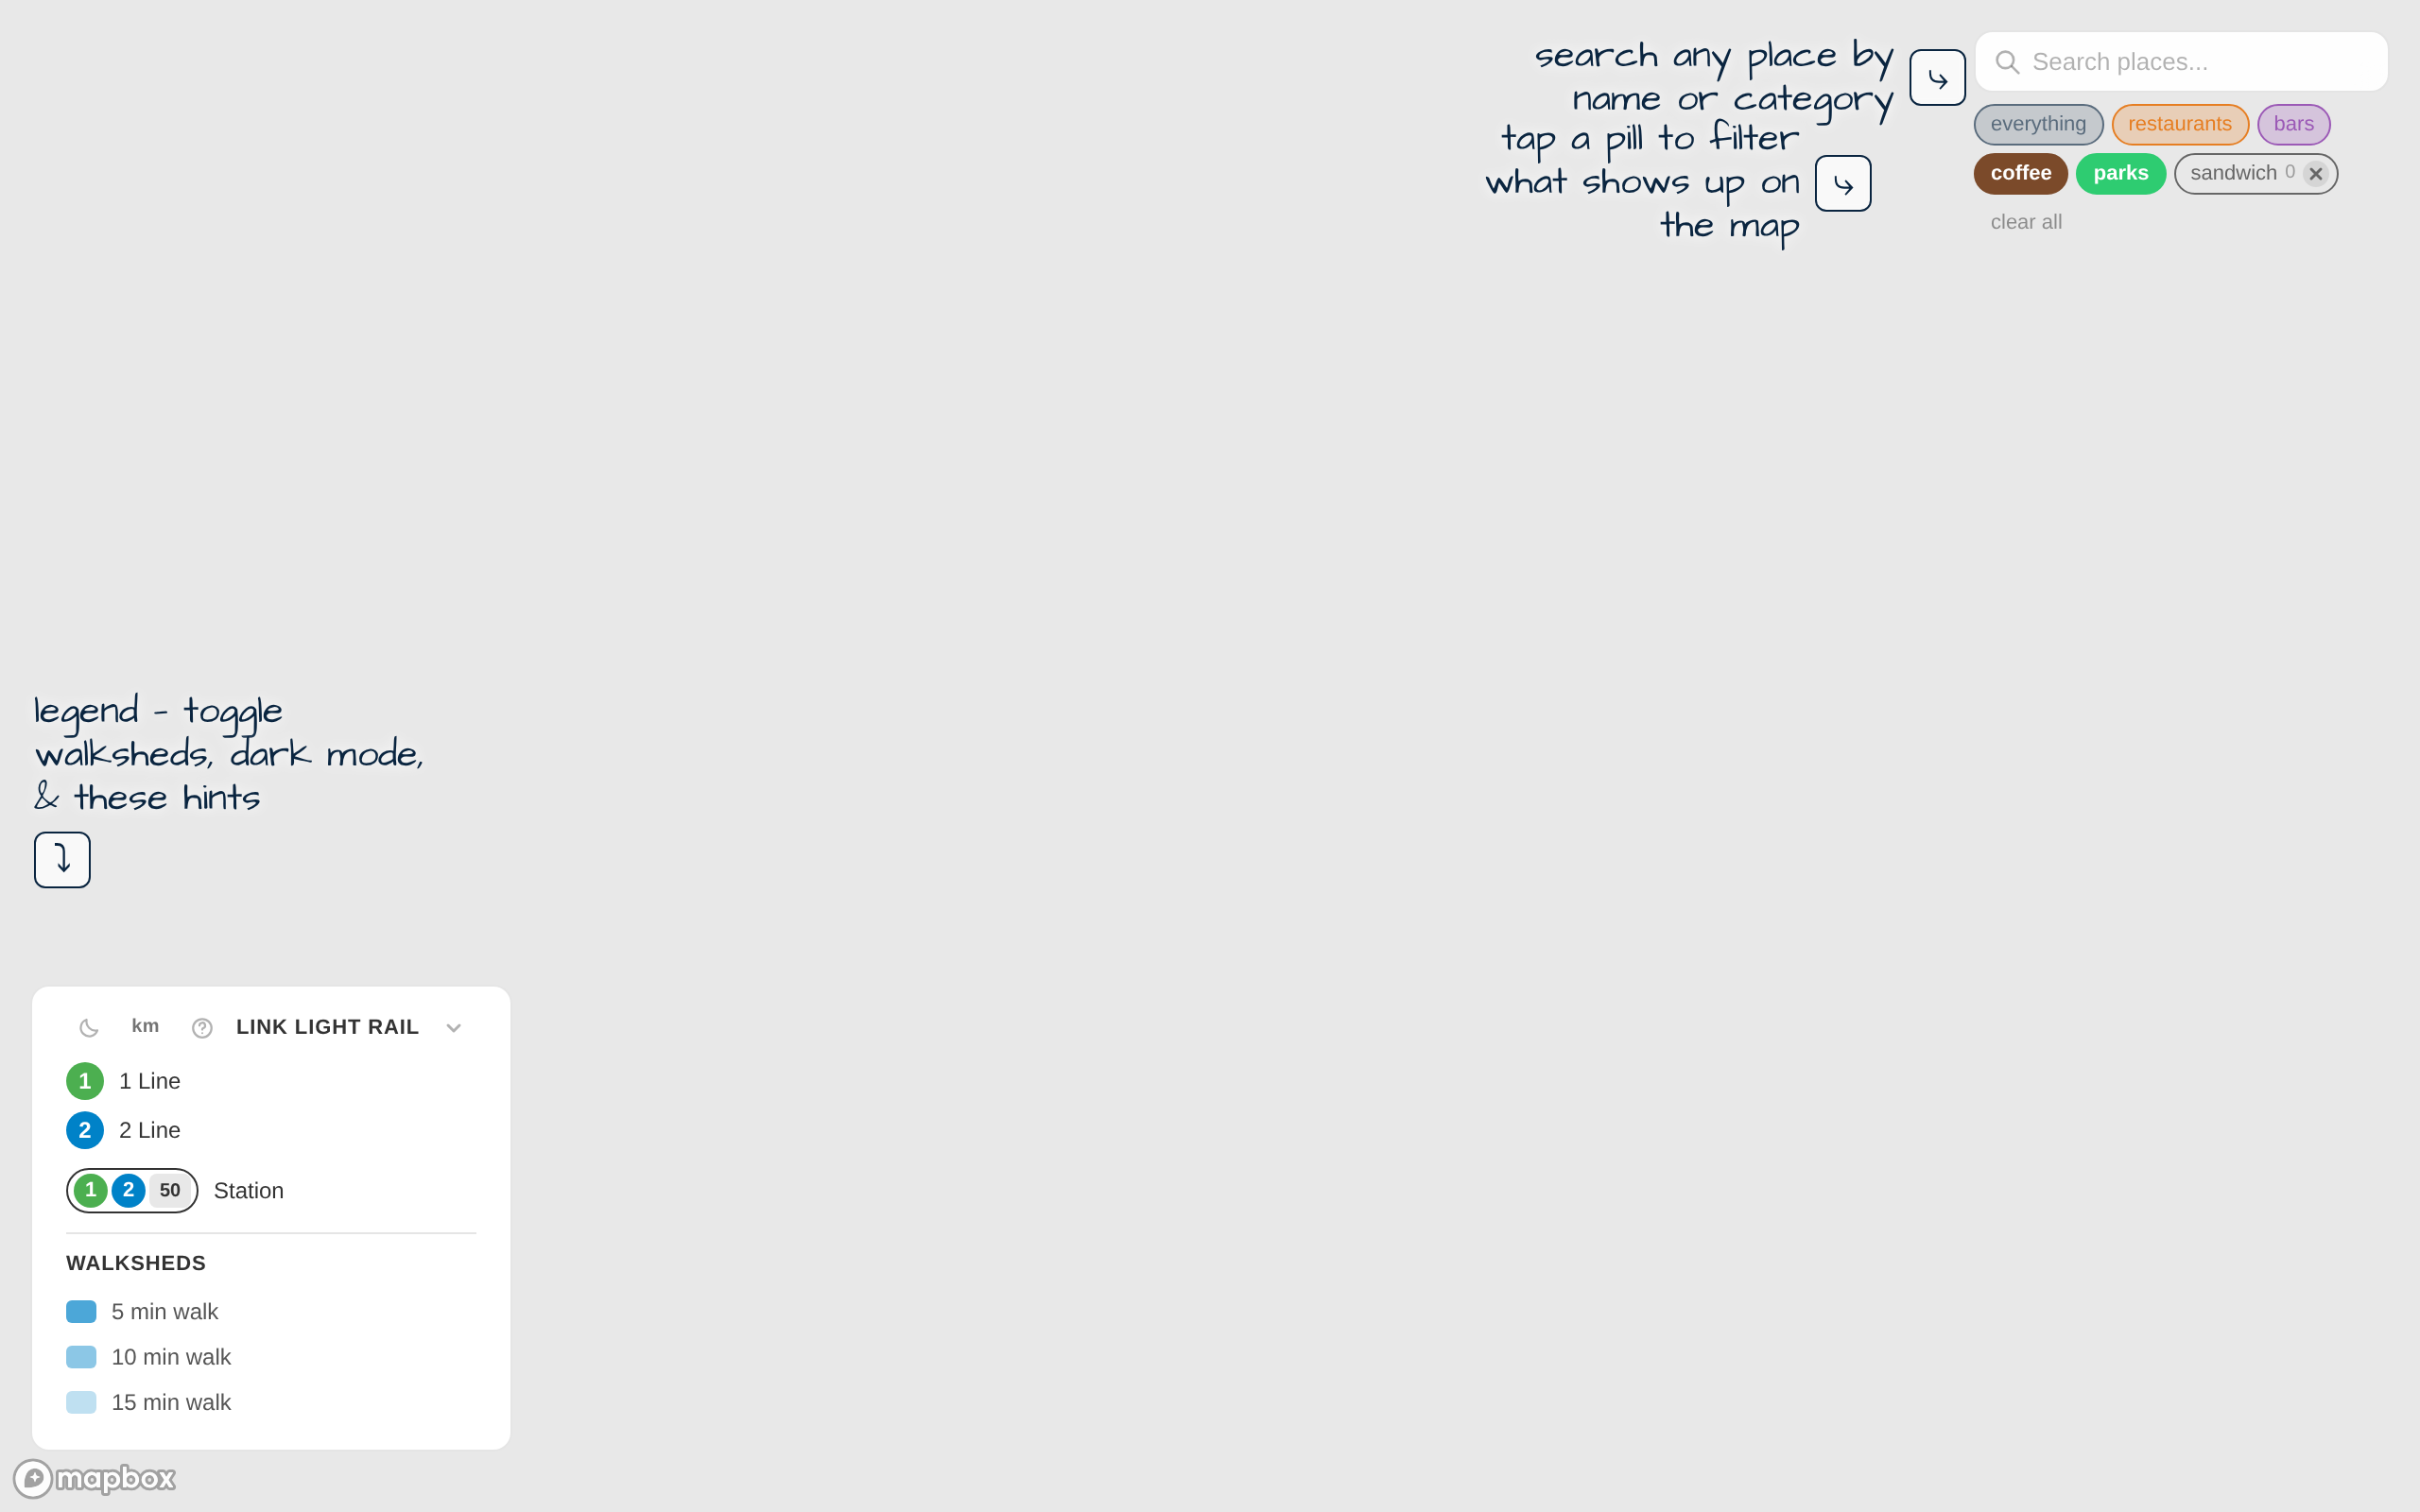
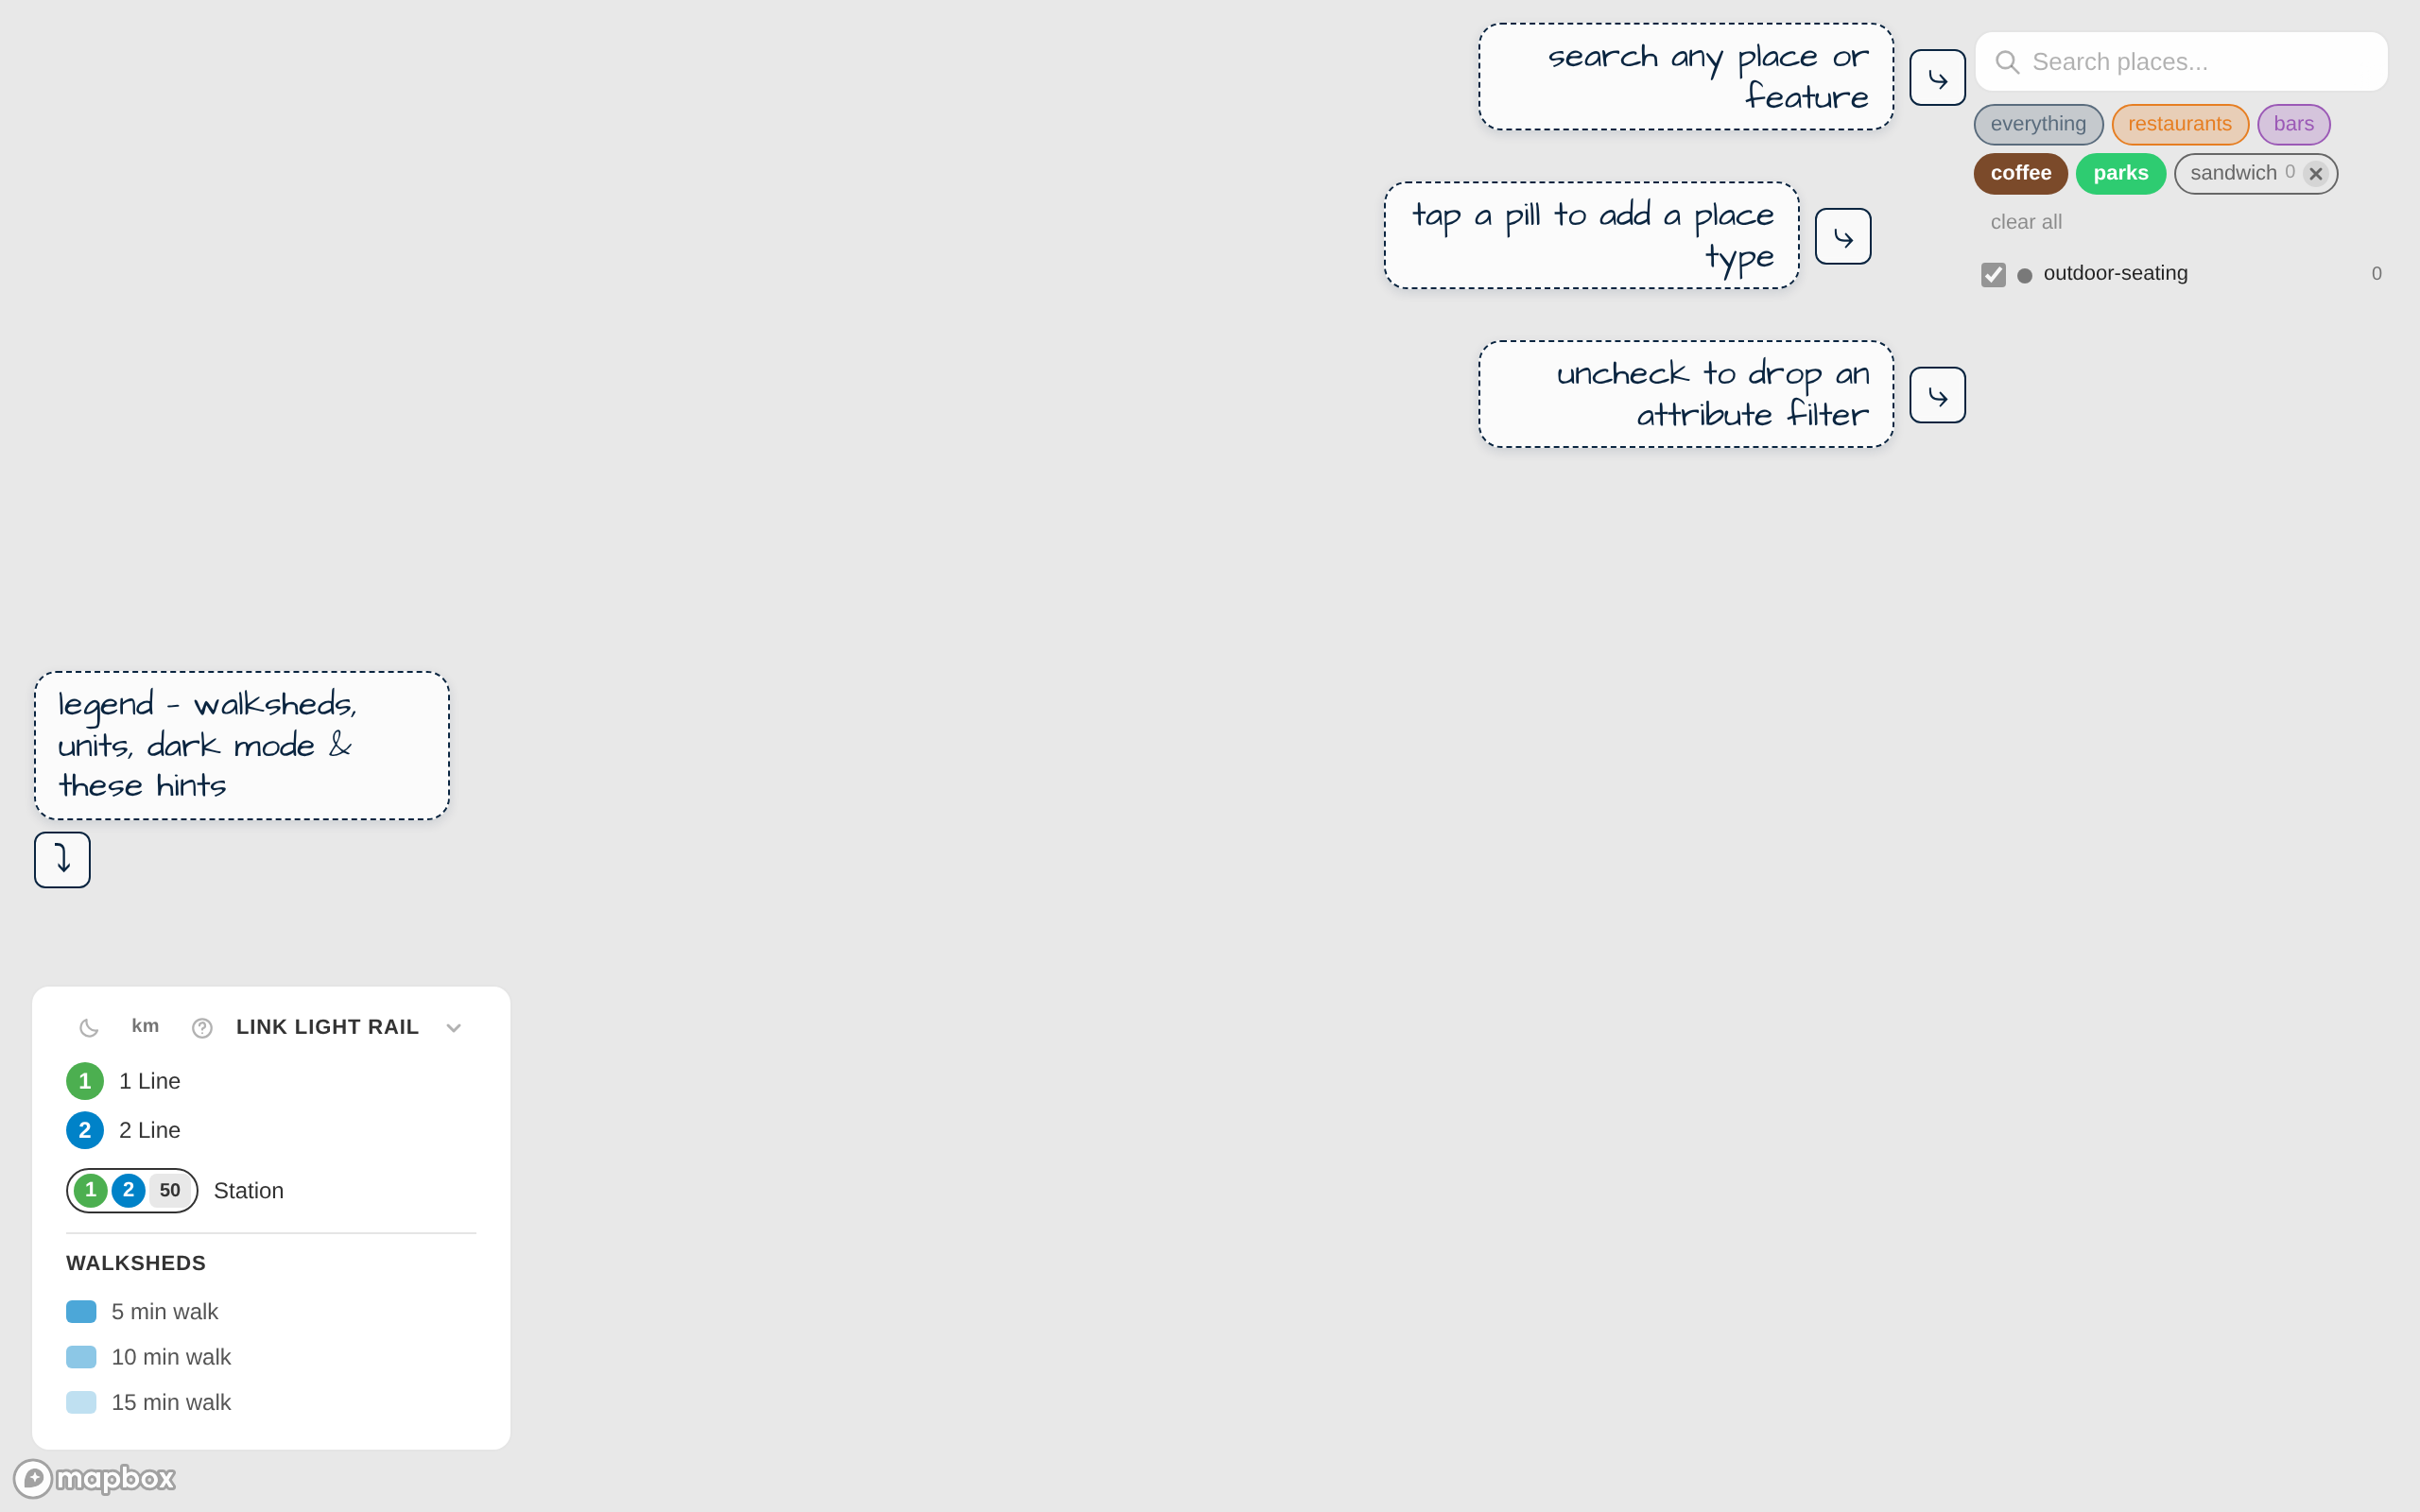
Add filter-list hint, tighten existing hint copy, and add visual separation
After main split the POI state into spotlights / categories / filters,
the existing "tap a pill to filter what shows up" copy was misleading —
pills are POI categories now, and the new attribute filters live in a
separate checkbox list below the pills. Add a fourth hint pointing at
that filter list and rewrite the legend, search, and pills copy to
match the new model.

For visual separation, wrap each hint label in a dashed-bordered
rounded card with a soft translucent background (matching the
blueprint aesthetic), bump vertical spacing between the four cards,
and tighten copy to keep each label at most two lines.

The filter-list hint is suppressed when `activeFilters` is empty so
the arrow never points at empty space. To make the demo land cleanly
on first load, also seed an `outdoor-seating` filter alongside the
existing sandwich category default — both surface beside Westlake's
parks + coffee spotlights.

Updated demo screenshots for expanded and collapsed legend states.

https://claude.ai/code/session_01BJfRR196Lb954yx5ttjYH3

diff --git a/src/walksheds.css b/src/walksheds.css
@@ -605,20 +605,22 @@ body,
 
 .hint-label {
   font-family: 'Architects Daughter', 'Comic Sans MS', cursive;
-  font-size: 20px;
+  font-size: 18px;
   font-weight: 400;
-  line-height: 1.15;
+  line-height: 1.2;
   max-width: 220px;
   color: inherit;
-  text-shadow:
-    0 0 6px rgba(255, 255, 255, 0.9),
-    0 0 12px rgba(255, 255, 255, 0.6);
+  padding: 6px 12px;
+  border: 1.5px dashed currentColor;
+  border-radius: 12px;
+  background: rgba(255, 255, 255, 0.82);
+  backdrop-filter: blur(2px);
+  box-shadow: 0 2px 6px rgba(10, 37, 64, 0.12);
 }
 
 .app.dark .hint-label {
-  text-shadow:
-    0 0 6px rgba(0, 0, 0, 0.9),
-    0 0 12px rgba(0, 0, 0, 0.6);
+  background: rgba(10, 20, 35, 0.72);
+  box-shadow: 0 2px 6px rgba(0, 0, 0, 0.4);
 }
 
 /* kbd-styled glyph chip matching the junction-turn arrows on the station
@@ -678,33 +680,49 @@ body,
 
 /* Search hint: label left, arrow right pointing RIGHT at the search box. */
 .hint-search {
-  top: 18px;
+  top: 12px;
   right: 240px;
   text-align: right;
 }
 
 .hint-search .hint-label {
-  max-width: 200px;
+  max-width: 220px;
 }
 
 /* Pills hint: label left, arrow right pointing RIGHT at the pills row.
-   Aligns vertically with the pills (which appear directly below the
-   search box). */
+   Sits well below the search hint to keep visual separation between
+   the four cards. */
 .hint-pills {
-  top: 62px;
+  top: 96px;
   right: 290px;
   text-align: right;
 }
 
 .hint-pills .hint-label {
-  max-width: 200px;
+  max-width: 220px;
+}
+
+/* Filter hint: label left, arrow right pointing RIGHT at the attribute
+   checkbox list (rendered below the pills row when activeFilters is
+   non-empty). */
+.hint-filters {
+  top: 180px;
+  right: 240px;
+  text-align: right;
+}
+
+.hint-filters .hint-label {
+  max-width: 220px;
 }
 
 @media (max-width: 900px) {
-  .hint-label { font-size: 17px; }
-  .hint-search { right: 220px; }
-  .hint-pills  { right: 260px; }
-  .hint-search .hint-label, .hint-pills .hint-label { max-width: 160px; }
+  .hint-label { font-size: 16px; padding: 5px 10px; }
+  .hint-search  { right: 220px; top: 12px;  }
+  .hint-pills   { right: 260px; top: 86px;  }
+  .hint-filters { right: 220px; top: 162px; }
+  .hint-search .hint-label,
+  .hint-pills .hint-label,
+  .hint-filters .hint-label { max-width: 180px; }
   .hint-legend.bottom-left  { left: 14px; bottom: 300px; }
   .hint-legend.bottom-right { right: 14px; bottom: 300px; }
 }
@@ -712,8 +730,9 @@ body,
 @media (max-width: 540px) {
   /* Narrow viewports: drop the side-by-side layout, stack the hints
      centered with arrows still pointing right. */
-  .hint-search { top: 20px; right: 80px; }
-  .hint-pills  { top: 64px; right: 80px; }
+  .hint-search  { top: 12px;  right: 80px; }
+  .hint-pills   { top: 80px;  right: 80px; }
+  .hint-filters { top: 150px; right: 80px; }
 }
 
 /* ── Mapbox overrides ── */

diff --git a/src/HintOverlay.jsx b/src/HintOverlay.jsx
@@ -1,11 +1,13 @@
-// Single transparent hint overlay. Three labels with kbd-styled curved
-// cardinal arrows point at the legend, the place search input, and the
-// filter pills row — same visual treatment as the junction-turn glyphs on
-// the Chinatown station pill. The overlay itself is pointer-events: none;
-// clicks anywhere on the page dismiss it via a document-level listener
-// in Walksheds.jsx.
+// Single transparent hint overlay. Four labels with kbd-styled curved
+// cardinal arrows point at the legend, the place search input, the
+// category pills, and the attribute-filter checkbox list — same visual
+// treatment as the junction-turn glyphs on the Chinatown station pill.
+// The overlay itself is pointer-events: none; clicks anywhere on the
+// page dismiss it via a document-level listener in Walksheds.jsx.
+// `hasActiveFilters` suppresses the filter hint when the checkbox list
+// isn't rendered, so the arrow never points at empty space.
 
-export default function HintOverlay({ legendPosition, legendCollapsed }) {
+export default function HintOverlay({ legendPosition, legendCollapsed, hasActiveFilters }) {
   const legendClass = [
     'hint',
     'hint-legend',
@@ -16,19 +18,26 @@ export default function HintOverlay({ legendPosition, legendCollapsed }) {
   return (
     <div className="hint-overlay" role="presentation" aria-hidden="true">
       <div className={legendClass}>
-        <span className="hint-label">legend &mdash; toggle walksheds, dark mode, &amp; these hints</span>
+        <span className="hint-label">legend &mdash; walksheds, units, dark mode &amp; these hints</span>
         <kbd className="hint-arrow" aria-hidden="true">⤵</kbd>
       </div>
 
       <div className="hint hint-search">
-        <span className="hint-label">search any place by name or category</span>
+        <span className="hint-label">search any place or feature</span>
         <kbd className="hint-arrow" aria-hidden="true">⤷</kbd>
       </div>
 
       <div className="hint hint-pills">
-        <span className="hint-label">tap a pill to filter what shows up on the map</span>
+        <span className="hint-label">tap a pill to add a place type</span>
         <kbd className="hint-arrow" aria-hidden="true">⤷</kbd>
       </div>
+
+      {hasActiveFilters && (
+        <div className="hint hint-filters">
+          <span className="hint-label">uncheck to drop an attribute filter</span>
+          <kbd className="hint-arrow" aria-hidden="true">⤷</kbd>
+        </div>
+      )}
     </div>
   )
 }

diff --git a/src/Walksheds.jsx b/src/Walksheds.jsx
@@ -626,6 +626,7 @@ export default function Walksheds() {
         <HintOverlay
           legendPosition={legendPosition}
           legendCollapsed={legendCollapsed}
+          hasActiveFilters={activeFilters.size > 0}
         />
       )}
     </div>